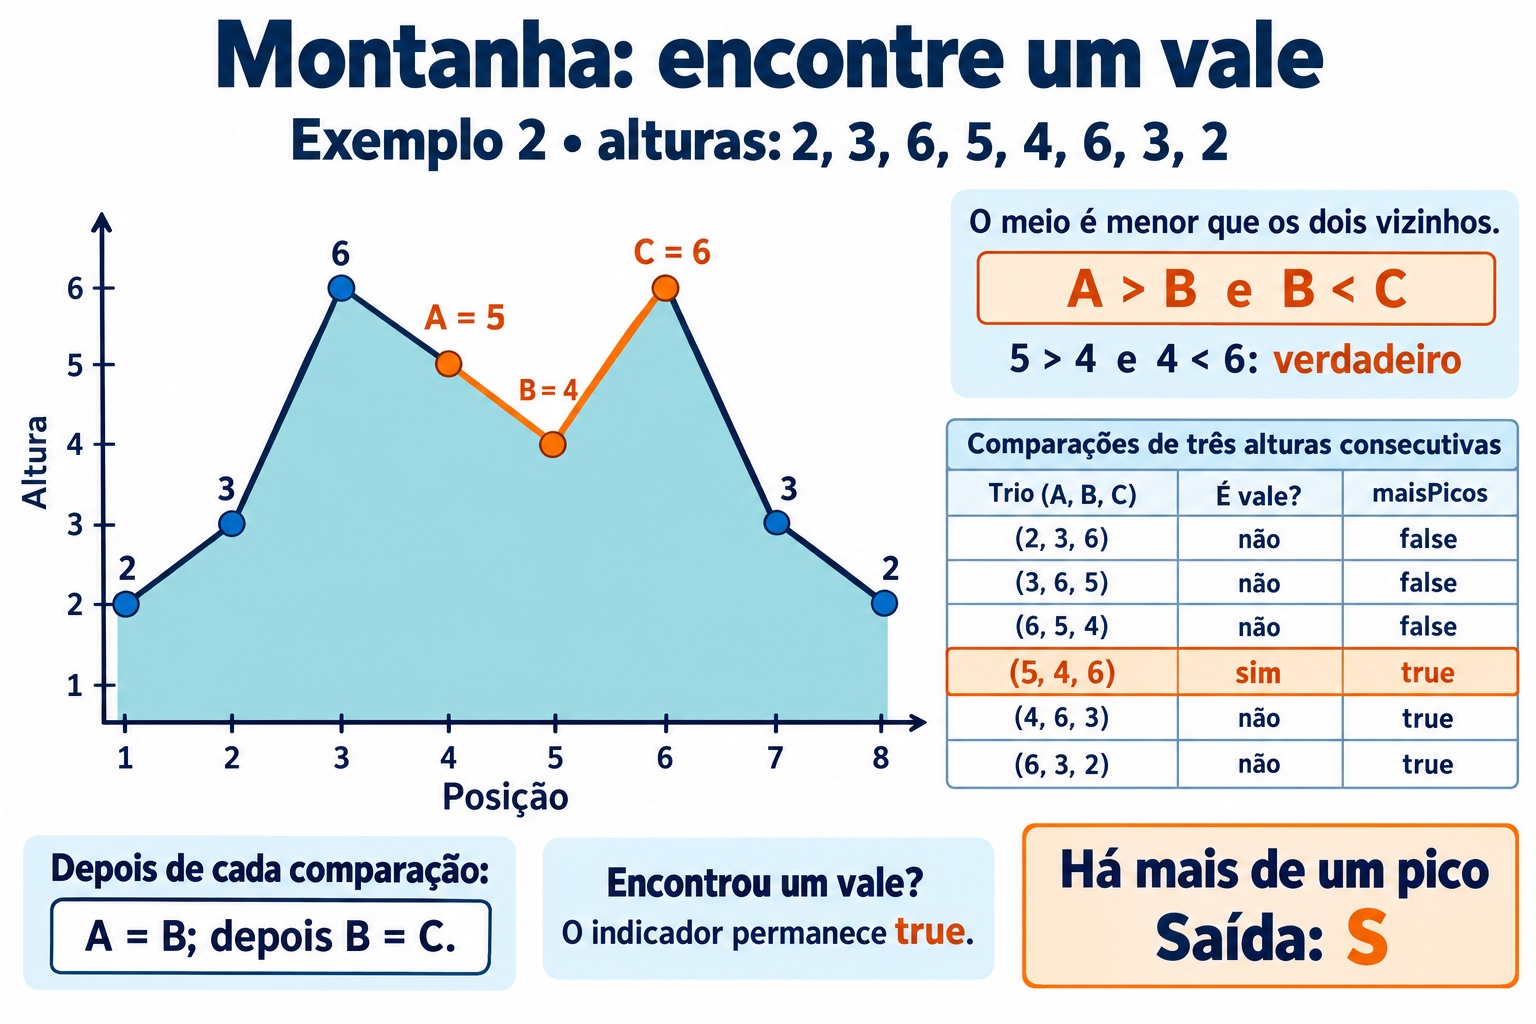
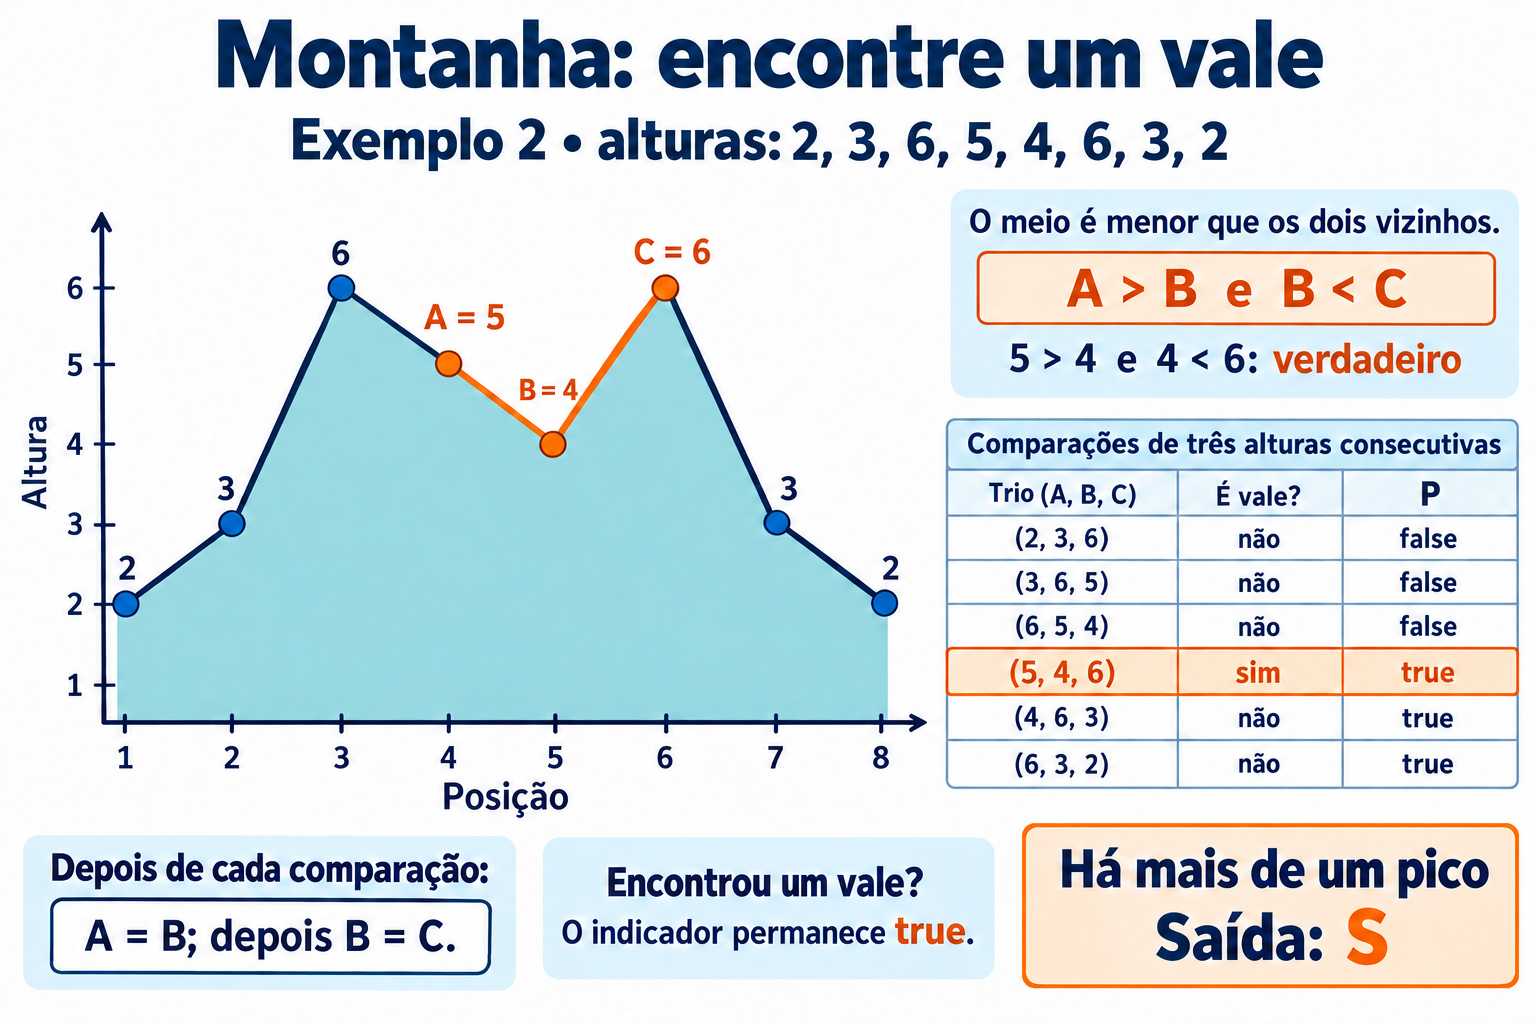
Renomeia indicador de Montanha para P

diff --git a/exercicios/OBI/JRF22017_montanha_a.ts b/exercicios/OBI/JRF22017_montanha_a.ts
@@ -9,7 +9,7 @@ let A: number; // Altura à esquerda
 let B: number; // Altura do meio
 let C: number; // Altura à direita
 let i: number; // Posição da altura à direita
-let maisPicos: boolean; // Indica se foi encontrado um vale
+let P: boolean; // Indica se foi encontrado um vale
 
 // Entrada de dados
 entN = prompt('Digite a quantidade de alturas:');
@@ -23,7 +23,7 @@ if (entN !== null) {
     if (entA !== null && entB !== null) {
         A = parseInt(entA);
         B = parseInt(entB);
-        maisPicos = false;
+        P = false;
 
         for (i = 3; i <= N; i++) {
             entC = prompt('Digite a próxima altura:');
@@ -32,7 +32,7 @@ if (entN !== null) {
                 C = parseInt(entC);
 
                 if (A > B && B < C) {
-                    maisPicos = true;
+                    P = true;
                 }
 
                 A = B;
@@ -41,7 +41,7 @@ if (entN !== null) {
         }
 
         // Saída de dados
-        if (maisPicos) {
+        if (P) {
             console.log('S');
         } else {
             console.log('N');

diff --git a/exercicios/OBI/JRF22017_montanha_b.ts b/exercicios/OBI/JRF22017_montanha_b.ts
@@ -29,7 +29,7 @@ let A: number; // Altura à esquerda
 let B: number; // Altura do meio
 let C: number; // Altura à direita
 let i: number; // Posição da altura à direita
-let maisPicos: boolean; // Indica se foi encontrado um vale
+let P: boolean; // Indica se foi encontrado um vale
 
 // Entrada de dados
 N = lerNum('Digite a quantidade de alturas:');
@@ -37,13 +37,13 @@ A = lerNum('Digite a primeira altura:');
 B = lerNum('Digite a segunda altura:');
 
 // Processamento dos dados
-maisPicos = false;
+P = false;
 
 for (i = 3; i <= N; i++) {
     C = lerNum('Digite a próxima altura:');
 
     if (A > B && B < C) {
-        maisPicos = true;
+        P = true;
     }
 
     A = B;
@@ -51,7 +51,7 @@ for (i = 3; i <= N; i++) {
 }
 
 // Saída de dados
-if (maisPicos) {
+if (P) {
     console.log('S');
 } else {
     console.log('N');

diff --git a/exercicios/OBI/JRF22017_montanha.md b/exercicios/OBI/JRF22017_montanha.md
@@ -37,15 +37,15 @@ Nas soluções para o TypeScript Playground, informe um número por `prompt`.
 ```mermaid
 flowchart TD
 IN([INICIO]) --> EN[/"N; A; B"/]
-EN --> INIT["maisPicos = falso; i = 3"]
+EN --> INIT["P = falso; i = 3"]
 INIT --> LOOP{"i <= N?"}
 LOOP -- V --> READ[/"C"/]
 READ --> TEST{"A > B e B < C?"}
-TEST -- V --> FLAG["maisPicos = verdadeiro"]
+TEST -- V --> FLAG["P = verdadeiro"]
 TEST -- F --> NEXT["A = B; B = C; i = i + 1"]
 FLAG --> NEXT
 NEXT --> LOOP
-LOOP -- F --> RESULT{"maisPicos?"}
+LOOP -- F --> RESULT{"P?"}
 RESULT -- V --> YES[/"S"/]
 RESULT -- F --> NO[/"N"/]
 YES --> END([FIM])
@@ -54,7 +54,7 @@ NO --> END
 
 ## Ideia do algoritmo
 
-Leia as duas primeiras alturas em `A` e `B`; inicialize `maisPicos = false`. A partir da terceira, leia `C`. Se `A > B` e `B < C`, encontramos um vale: atribua `true` a `maisPicos`.
+Leia as duas primeiras alturas em `A` e `B`; inicialize `P = false`. A partir da terceira, leia `C`. Se `A > B` e `B < C`, encontramos um vale: atribua `true` a `P`.
 
 Desloque a comparação com `A = B` e depois `B = C`. A ordem importa: preserva as duas últimas alturas para a próxima leitura. Uma vez verdadeiro, o indicador permanece verdadeiro, mesmo que os próximos trios não formem vales.
 
